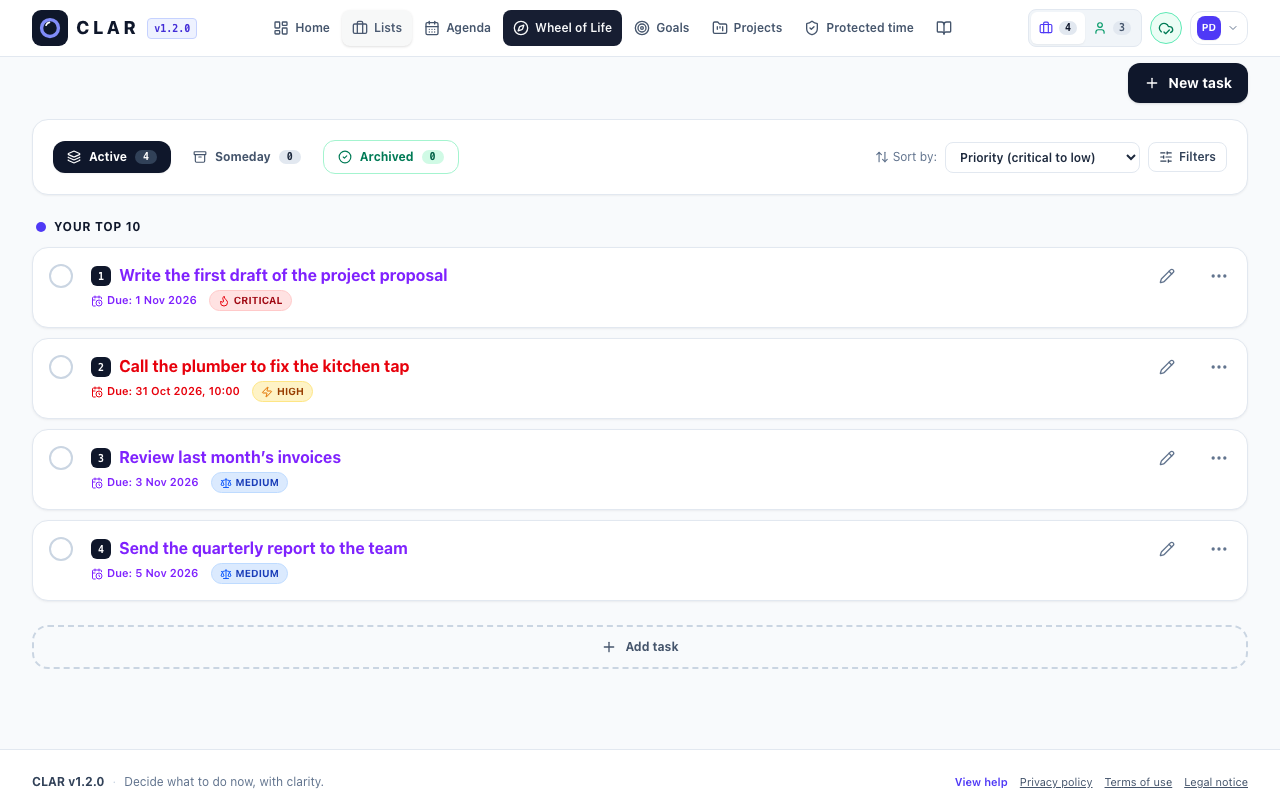
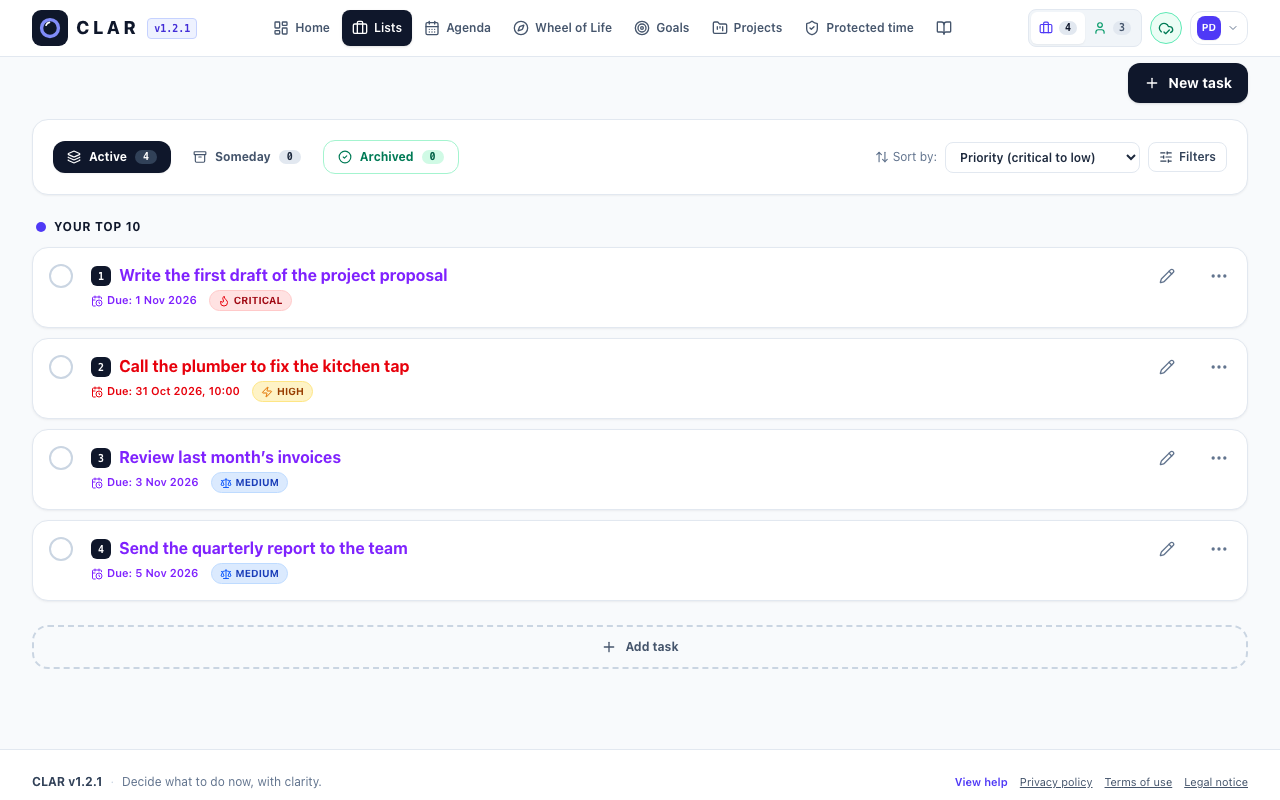
fix(launch): review — honest log retention, ?lang keeps an account's language, tab title per language, robust goal-form test, fresh screenshots

Changed region(s): [[0.375, 0.0, 0.5, 0.0625], [0.25, 0.0, 0.3438, 0.0625], [0.0938, 0.9688, 0.25, 1.0]]

diff --git a/src/i18n/locale.ts b/src/i18n/locale.ts
@@ -31,8 +31,9 @@ const read = (key: string) => {
 
 // El idioma de esta carga de la página. En los entornos sin navegador (pruebas, servidor), español; las pruebas
 // pueden fijar otro con globalThis.__CLAR_LOCALE__
-// Un enlace con ?lang=en (o ?lang=es) abre CLAR en ese idioma y lo deja elegido en el dispositivo, como si se hubiera
-// pulsado en el selector (pasa a la cuenta al entrar). El parámetro se quita de la dirección (consumeLocaleParam)
+// Un enlace con ?lang=en (o ?lang=es) abre CLAR en ese idioma y lo deja guardado en el dispositivo. No cambia el idioma
+// de una cuenta que ya tiene uno (en esa visita se ve el del enlace; la siguiente, el de la cuenta); una cuenta sin
+// idioma, o nueva, se queda con el del enlace. El parámetro se quita de la dirección (consumeLocaleParam)
 const LANG_PARAM = 'lang';
 const fromUrl = (): Locale | null => {
   if (typeof window === 'undefined') return null;
@@ -45,10 +46,7 @@ const initial = (): Locale => {
   const linked = fromUrl();
   if (linked) {
     try {
-      if (localStorage.getItem(STORAGE_KEY) !== linked) {
-        localStorage.setItem(STORAGE_KEY, linked);
-        localStorage.setItem(PENDING_KEY, '1');
-      }
+      localStorage.setItem(STORAGE_KEY, linked);
     } catch {
       // Sin almacenamiento: vale para esta carga
     }
@@ -58,6 +56,8 @@ const initial = (): Locale => {
   return isLocale(saved) ? saved : 'es';
 };
 export const LOCALE: Locale = initial();
+// Esta carga viene de un enlace con ?lang=: el idioma de la cuenta no la vuelve a cargar (useAccountLanguage)
+export const LINKED = fromUrl() !== null;
 const RELOADED_KEY = 'clar_locale_reloaded';
 // La recarga para adoptar el idioma de la cuenta funcionó: se olvida (ver setLocale)
 if (typeof window !== 'undefined') {
@@ -163,5 +163,10 @@ export const consumeLocaleParam = () => {
 
 // <html lang> según el idioma (lectores de pantalla, traductores, corrección ortográfica)
 export const applyDocumentLocale = () => {
-  if (typeof document !== 'undefined') document.documentElement.lang = LOCALE;
+  if (typeof document === 'undefined') return;
+  document.documentElement.lang = LOCALE;
+  document.title = messages<string>(
+    'CLAR · Decide qué hacer ahora, con claridad',
+    'CLAR · Decide what to do now, with clarity'
+  );
 };

diff --git a/tests/e2e/language.spec.ts b/tests/e2e/language.spec.ts
@@ -102,3 +102,33 @@ test('a link with ?lang=en opens CLAR in English, keeps it and cleans the addres
   await page.goto('/?lang=es');
   await expect(page.getByRole('button', { name: 'Continuar con Google' })).toBeVisible();
 });
+
+test('a ?lang link does not change the language of an account that has one; this visit shows the link language', async ({
+  page
+}) => {
+  test.slow();
+  const email = uniqueEmail();
+  await page.goto('/');
+  await signInWithGoogle(page, email);
+  const uid = await uidOf(email);
+  await expect.poll(async () => (await readDocument(`users/${uid}`))?.language).toBe('es');
+  await page.goto('/?lang=en');
+  await expect(page.locator('html')).toHaveAttribute('lang', 'en');
+  await expect(page.getByRole('button', { name: 'Lists', exact: true }).first()).toBeVisible({ timeout: 15_000 });
+  // La cuenta sigue en español y, en la próxima visita, manda
+  expect((await readDocument(`users/${uid}`))?.language).toBe('es');
+  await page.reload();
+  await expect(page.locator('html')).toHaveAttribute('lang', 'es', { timeout: 15_000 });
+});
+
+test('choosing the language already shown is not a choice for the account', async ({ page }) => {
+  // Un dispositivo nuevo: pulsar «Español», que ya se ve, no deja una elección pendiente de pasar a la cuenta
+  await page.goto('/');
+  await languageGroup(page).getByRole('button', { name: 'Español', exact: true }).click();
+  await expect(page.locator('html')).toHaveAttribute('lang', 'es');
+  expect(await page.evaluate(() => localStorage.getItem('clar_locale_pending'))).toBeNull();
+  // Elegir el otro, sí
+  await languageGroup(page).getByRole('button', { name: 'English', exact: true }).click();
+  await expect(page.locator('html')).toHaveAttribute('lang', 'en');
+  expect(await page.evaluate(() => localStorage.getItem('clar_locale_pending'))).toBe('1');
+});

diff --git a/src/components/LegalTexts.tsx b/src/components/LegalTexts.tsx
@@ -219,7 +219,10 @@ const PrivacyPolicyEs: React.FC = () => (
       <List>
         <li>Tu cuenta y lo que escribes: hasta que lo borres o elimines la cuenta.</li>
         <li>Registro de acceso y mensajes de «Escríbenos»: hasta que elimines la cuenta.</li>
-        <li>Registros técnicos: 30 días.</li>
+        <li>
+          Registros técnicos: los de CLAR (Cloud Logging), 30 días. Los que guardan los servicios de Google para
+          funcionar siguen sus propios plazos (Hosting, unos meses; Authentication, unas semanas).
+        </li>
         <li>
           Funciones extra: hasta que la administración te las quite o te retire o bloquee el acceso, o elimines la
           cuenta.
@@ -654,7 +657,10 @@ const PrivacyPolicyEn: React.FC<EnglishTextProps> = ({ onShowSpanish }) => (
       <List>
         <li>Your account and what you write: until you delete it or delete your account.</li>
         <li>Access record and “Contact us” messages: until you delete your account.</li>
-        <li>Technical logs: 30 days.</li>
+        <li>
+          Technical logs: CLAR's own (Cloud Logging), 30 days. Those that Google's services keep to work follow their
+          own periods (Hosting, a few months; Authentication, a few weeks).
+        </li>
         <li>
           Extra features: until the administrator removes them from you or withdraws or blocks your access, or you
           delete your account.

diff --git a/src/services/releaseNotes.ts b/src/services/releaseNotes.ts
@@ -30,11 +30,11 @@ export const RELEASE_NOTES: readonly ReleaseNote[] = [
       messages(
         {
           title: 'Arreglos',
-          text: 'Un área de la Rueda que renombraste ya no vuelve a su nombre de partida, y la página de entrada y la política de privacidad explican mejor quién ve tus datos y qué registros técnicos se guardan.'
+          text: 'Un área de la Rueda que renombraste conserva su nombre al cambiar de idioma, y la página de entrada y la política de privacidad explican mejor quién ve tus datos y qué registros técnicos se guardan.'
         },
         {
           title: 'Fixes',
-          text: 'A Wheel area you renamed no longer goes back to its starting name, and the sign-in page and the privacy policy explain better who sees your data and which technical logs are kept.'
+          text: 'A Wheel area you renamed keeps its name when you switch languages, and the sign-in page and the privacy policy explain better who sees your data and which technical logs are kept.'
         }
       )
     ]

diff --git a/tests/e2e/unsaved-changes.spec.ts b/tests/e2e/unsaved-changes.spec.ts
@@ -103,7 +103,10 @@ test('a goal form with unsaved changes also asks before closing', async ({ page 
   await openSection(page, 'Metas');
   await page.getByRole('button', { name: 'Nueva meta', exact: true }).click();
   const form = page.getByRole('dialog', { name: 'Nueva meta' });
-  await form.getByLabel(/^Meta/).fill(`Correr una media maratón ${unique()}`);
+  const goal = `Correr una media maratón ${unique()}`;
+  await form.getByLabel(/^Meta/).fill(goal);
+  // Que el formulario ya tenga lo escrito antes de cerrarlo (en CI, Escape podía llegar antes)
+  await expect(form.getByLabel(/^Meta/)).toHaveValue(goal);
   await page.keyboard.press('Escape');
   const prompt = page.getByRole('alertdialog', { name: '¿Descartar los cambios?' });
   await expect(prompt).toContainText('Has empezado una meta nueva y no la has guardado.');

diff --git a/functions/src/app.ts b/functions/src/app.ts
@@ -3,8 +3,8 @@ import express, { Request, Response } from 'express';
 // Función HTTP `api`: solo sirve los Digital Asset Links de la APK Android (lo demás son funciones invocables)
 import { defineString } from 'firebase-functions/params';
 
-// Parámetros de Digital Asset Links. `firebase deploy` pide los valores la primera vez
-// y los guarda en functions/.env.<project-id> (ignorado por git).
+// Parámetros de Digital Asset Links. En producción salen de functions/.env.<project-id> (ignorado por git; en CI, de
+// las variables del repositorio); en local, de los valores de ejemplo.
 const androidPackageName = defineString('ANDROID_PACKAGE_NAME', {
   // Sin configurar (p. ej. al probar en local), uno de ejemplo: no coincide con ninguna APK
   default: 'com.example.clar',

diff --git a/src/hooks/useAccountLanguage.ts b/src/hooks/useAccountLanguage.ts
@@ -4,6 +4,7 @@ import {
   accountLanguageSync,
   clearPendingLocale,
   hasPendingLocale,
+  LINKED,
   LOCALE,
   setLocale,
   storedLocale
@@ -31,6 +32,7 @@ export const useAccountLanguage = (db: Firestore, uid: string, language: unknown
       saveLanguage(db, uid, sync.language)
         .then(clearPendingLocale)
         .catch((e) => console.warn('Could not save the language:', e));
-    else if (sync.action === 'adopt') setLocale(sync.language, { pending: false, reload: sync.reload });
+    // Si se abrió con un enlace ?lang=, esta visita se queda en el del enlace; la siguiente, en el de la cuenta
+    else if (sync.action === 'adopt') setLocale(sync.language, { pending: false, reload: sync.reload && !LINKED });
   }, [db, uid, language, fromServer]);
 };

diff --git a/src/services/wheel.ts b/src/services/wheel.ts
@@ -13,8 +13,8 @@ export const WHEEL_CATEGORIES: DefaultWheelCategory[] = [
 ];
 
 // Nombre de las áreas de partida en cada idioma (en español, su identificador). Se guardan con su identificador como
-// nombre; al leerlas, un área de partida sin renombrar (con el nombre de partida de cualquier idioma) se muestra con
-// el del idioma de la app. Las renombradas conservan su nombre.
+// nombre; al leerlas, un área de partida guardada con su identificador se muestra con el nombre del idioma de la app.
+// Las renombradas conservan su nombre (también si coincide con el de partida del otro idioma).
 const DEFAULT_AREA_NAMES: Record<Locale, Record<DefaultWheelCategory, string>> = {
   es: {
     Salud: 'Salud',

diff --git a/docs/requisitos.md b/docs/requisitos.md
@@ -304,7 +304,7 @@ Origen: `src/AuthGate.tsx`, `src/AccessGate.tsx`, `src/services/auth.ts`, `src/s
 - **RF-CUE-30.** «Funciones extra», en el menú de la cuenta, muestra las que la persona administradora le ha activado, con su descripción y sin interruptor. La persona administradora las tiene todas, con un interruptor por función: empiezan apagadas y lo que elige se guarda en su perfil.
 - **RF-CUE-31.** «Compartir CLAR», en el menú de la cuenta, abre el menú de compartir del dispositivo con el nombre, la frase de la app y su dirección; donde no lo hay, copia la dirección y lo dice. Cerrar el menú de compartir no es un error.
 - **RF-CUE-32.** Sin sesión iniciada, la pantalla de entrada es también la página de presentación: qué es CLAR (la Rueda, las metas y proyectos, el Top 10, la agenda y las alarmas, el tiempo protegido, el dictado y el uso sin conexión), cómo se tratan los datos, que es de código abierto (con enlace al repositorio) y, al lado (debajo en el móvil), cómo entrar. «Crear cuenta gratis» lleva al formulario en «Crear una cuenta», y «Ya tengo cuenta», a «Entrar». Las funciones extra no se anuncian. Al compartir el enlace, se ve una tarjeta con el logo, el nombre y la frase (Open Graph, `public/og-image.png`).
-- **RF-CUE-33.** La app está en español (por defecto) o en inglés. «Español / English» está arriba en la página de inicio y en el menú de la cuenta; al cambiarlo, la app se vuelve a cargar en ese idioma. Un enlace con `?lang=en` (o `?lang=es`) abre la app en ese idioma y lo deja elegido como si se hubiera pulsado; el parámetro se quita de la dirección. La elección se guarda en el dispositivo y en la cuenta (`users/{uid}.language`): elegida antes de entrar, pasa a la cuenta al entrar; si no, al abrir la app manda la de la cuenta (solo al abrirla, no mientras se usa). Se traducen la interfaz, la ayuda, las novedades, los textos legales (en inglés, con el aviso de que vale la versión en español y un botón para cambiar a ella), los emails a la persona (verificación y contraseña, acceso aprobado, respuestas a sus mensajes), las notificaciones push (cada dispositivo registra su idioma), los mensajes de error del servidor y los eventos de Google Calendar. Lo que escribe la persona no se traduce; las áreas de partida de la Rueda sin renombrar se ven en el idioma de la app. Las fechas y los números siguen el idioma (en inglés, con el formato europeo: 24 h y el día antes que el mes) y el dictado se hace en él. Los emails a la administración siguen en español. Los accesos directos del icono y la descripción del enlace al compartir van en los dos idiomas.
+- **RF-CUE-33.** La app está en español (por defecto) o en inglés. «Español / English» está arriba en la página de inicio y en el menú de la cuenta; al cambiarlo, la app se vuelve a cargar en ese idioma. Un enlace con `?lang=en` (o `?lang=es`) abre la app en ese idioma y lo guarda en el dispositivo; una cuenta sin idioma, o nueva, se queda con él, y una que ya tiene uno lo conserva (esa visita se ve en el del enlace). El parámetro se quita de la dirección. La elección se guarda en el dispositivo y en la cuenta (`users/{uid}.language`): elegida antes de entrar, pasa a la cuenta al entrar; si no, al abrir la app manda la de la cuenta (solo al abrirla, no mientras se usa). Se traducen la interfaz, la ayuda, las novedades, los textos legales (en inglés, con el aviso de que vale la versión en español y un botón para cambiar a ella), los emails a la persona (verificación y contraseña, acceso aprobado, respuestas a sus mensajes), las notificaciones push (cada dispositivo registra su idioma), los mensajes de error del servidor y los eventos de Google Calendar. Lo que escribe la persona no se traduce; las áreas de partida de la Rueda sin renombrar se ven en el idioma de la app. Las fechas y los números siguen el idioma (en inglés, con el formato europeo: 24 h y el día antes que el mes) y el dictado se hace en él. Los emails a la administración siguen en español. Los accesos directos del icono y la descripción del enlace al compartir van en los dos idiomas.
 
 ### 1.11 Administración (RF-ADM)
 
@@ -390,7 +390,7 @@ Origen: `firestore.rules`, `firebase.json`, `functions/src/access.ts`, `function
 - **RNF-SEG-07.** La persona administradora solo puede leer los mensajes de contacto y cambiar su estado a nuevo, leído o cerrado. No puede escribir su contenido ni sus respuestas desde la app.
 - **RNF-SEG-08.** Las funciones invocables exigen sesión iniciada. Las de administración comprueban además que el email verificado del token es el configurado.
 - **RNF-SEG-09.** Las funciones validan y recortan lo que reciben: estados permitidos, longitudes, formato de los identificadores y caracteres de control. Los cambios de acceso van en transacciones: al entrar y al solicitar acceso se leen también el modo de aprobación y la lista negra; una decisión de la administración comprueba el estado actual.
-- **RNF-SEG-10.** Hosting añade a todas las respuestas `X-Content-Type-Options: nosniff`, `Referrer-Policy: strict-origin-when-cross-origin` y una `Permissions-Policy` que deniega cámara, ubicación, pagos, USB y `browsing-topics`, y deja el micrófono solo a la propia app (para dictar).
+- **RNF-SEG-10.** Hosting añade a todas las respuestas `X-Content-Type-Options: nosniff`, `Referrer-Policy: strict-origin-when-cross-origin` y una `Permissions-Policy` que deniega cámara, ubicación, pagos, USB y `browsing-topics`, y deja el micrófono solo a la propia app (para dictar). `X-Frame-Options: SAMEORIGIN` y `Content-Security-Policy: frame-ancestors 'self'` impiden incrustarla en otras webs.
 - **RNF-SEG-11.** La política de seguridad de contenidos (CSP) y la `Cross-Origin-Opener-Policy` están en modo solo informar (`Report-Only`): avisan en la consola del navegador, pero no bloquean.
 - **RNF-SEG-12.** Eliminar la cuenta exige volver a autenticarse, y cambiar la contraseña exige la actual.
 - **RNF-SEG-13.** La app descarga su configuración de Firebase del propio Hosting al arrancar, así que el identificador del proyecto no está en el código. La contraseña del buzón de correo está en Secret Manager.
@@ -433,7 +433,7 @@ Origen: `tests/e2e/a11y.spec.ts`, `src/hooks/useModalFocus.ts`, `src/components/
 - **RNF-ACC-06.** La app reduce las animaciones también cuando lo pide el sistema (`prefers-reduced-motion`). Con menos movimiento, las ventanas y los avisos aparecen sin animación y el confeti de las celebraciones no se ve.
 - **RNF-ACC-07.** Los avisos se anuncian a los lectores de pantalla: los normales en una región viva educada y las alarmas en una asertiva.
 - **RNF-ACC-08.** Los gráficos y las barras de progreso tienen alternativa en texto: el gráfico de 14 días tiene una tabla equivalente y las barras usan el rol `progressbar` con su valor descrito.
-- **RNF-ACC-09.** Los botones de solo icono tienen nombre accesible. El documento declara el idioma español (`lang="es"`).
+- **RNF-ACC-09.** Los botones de solo icono tienen nombre accesible. El documento declara su idioma (`lang="es"` o `lang="en"`, según el de la app) y el título de la pestaña va en ese idioma.
 - **RNF-ACC-10.** La pregunta antes de descartar cambios pone el foco en «Seguir editando», la opción que no pierde nada.
 
 ### 2.4 Funcionamiento sin conexión y sincronización (RNF-OFF)

diff --git a/README.md b/README.md
@@ -5,13 +5,15 @@
 [![License: MIT](https://img.shields.io/badge/License-MIT-blue.svg)](LICENSE)
 [![React](https://img.shields.io/badge/React-19-61dafb.svg?logo=react&logoColor=black)](https://react.dev/)
 [![TypeScript](https://img.shields.io/badge/TypeScript-7.x-3178c6.svg?logo=typescript&logoColor=white)](https://www.typescriptlang.org/)
+**[English](#in-english)** · [Español](#clar--decide-qué-hacer-ahora-con-claridad)
+
 [![Firebase](https://img.shields.io/badge/Firebase-Auth%20·%20Firestore%20·%20Functions-ffca28.svg?logo=firebase&logoColor=black)](https://firebase.google.com/)
 
 **CLAR** es una app web gratuita y de código abierto para organizar tu tiempo: evalúas tu Rueda de la Vida, conviertes
 lo que quieres mejorar en metas y proyectos, y cada día decides qué hacer con un Top 10 y una agenda con alarmas.
 Funciona sin conexión y en español o en inglés. Pruébala en **https://clar.life**.
 
-![CLAR: la lista de tareas con el Top 10](docs/screenshots/lists-en.png)
+![CLAR: la lista de tareas con el Top 10](docs/screenshots/lists-es.png)
 
 > Algunas ideas de esta app se inspiran en el libro _Gestiona tu tiempo, disfruta de la vida_, de Jonathan Benito Sipos.
 > Este proyecto no está afiliado ni respaldado por el autor. Hasta la versión 0.7 se llamaba NeuroProductividad.
@@ -326,7 +328,7 @@ Firebase Hosting sirve la SPA compilada (`dist/`), la app lee y escribe directam
 | `/.well-known/assetlinks.json` | Función `api` (Digital Asset Links de la APK Android) |
 | `**`                           | `index.html` (fallback de la SPA)                     |
 
-Todas las respuestas llevan cabeceras de seguridad, definidas en `firebase.json`: `X-Content-Type-Options`, `Referrer-Policy`, `Permissions-Policy` (sin cámara, ubicación, pagos ni USB; el micrófono, solo para la propia app, para dictar) y una política de seguridad de contenidos (CSP) que solo permite el propio dominio, el inicio de sesión de Google, las APIs de Firebase (`*.googleapis.com`), las Cloud Functions (`*.cloudfunctions.net`) y las fotos de perfil de Google. Por ahora la CSP y la `Cross-Origin-Opener-Policy` van en modo «solo informar» (`…-Report-Only`): no bloquean nada y avisan en la consola del navegador. Un servicio externo nuevo hay que añadirlo a la CSP.
+Todas las respuestas llevan cabeceras de seguridad, definidas en `firebase.json`: `X-Content-Type-Options`, `Referrer-Policy`, `Permissions-Policy` (sin cámara, ubicación, pagos ni USB; el micrófono, solo para la propia app, para dictar) y una política de seguridad de contenidos (CSP) que solo permite el propio dominio, el inicio de sesión de Google, las APIs de Firebase (`*.googleapis.com`), las Cloud Functions (`*.cloudfunctions.net`) y las fotos de perfil de Google. Además, `X-Frame-Options: SAMEORIGIN` y `frame-ancestors 'self'` impiden incrustar la app en otras webs. Por ahora el resto de la CSP y la `Cross-Origin-Opener-Policy` van en modo «solo informar» (`…-Report-Only`): no bloquean nada y avisan en la consola del navegador. Un servicio externo nuevo hay que añadirlo a la CSP.
 
 Requisitos: un proyecto de Firebase en plan Blaze (Cloud Functions lo exige), una base de datos de Firestore `(default)` en `europe-west1`, los proveedores de inicio de sesión **Google** y **Correo electrónico/contraseña** activados en Authentication y la Firebase CLI con sesión iniciada (`npx firebase login`).
 
@@ -336,7 +338,7 @@ El ID del proyecto no se versiona: `.firebaserc` está en `.gitignore`. En cada 
 npx firebase use --add
 ```
 
-Las funciones usan los parámetros `ANDROID_PACKAGE_NAME` y `ANDROID_SHA256_FINGERPRINT` (la función `api`), `ADMIN_EMAIL` y `SMTP_USER` (accesos y contacto) y, opcionales, `SMTP_HOST` (el servidor SMTP; por defecto `smtp.ionos.es`) y `APP_URL` (la dirección de la app en los emails). `firebase deploy` pide los que faltan y los guarda en `functions/.env.<project-id>`, ignorado por git; en CI salen de las variables y los secretos del repositorio. Para los emuladores, defínelos en `functions/.env.local`.
+Las funciones usan los parámetros `ANDROID_PACKAGE_NAME` y `ANDROID_SHA256_FINGERPRINT` (la función `api`), `ADMIN_EMAIL` y `SMTP_USER` (accesos y contacto) y, opcionales, `SMTP_HOST` (el servidor SMTP; por defecto `smtp.ionos.es`) y `APP_URL` (la dirección de la app en los emails). `firebase deploy` pide los que faltan y los guarda en `functions/.env.<project-id>`, ignorado por git; en CI salen de las variables y los secretos del repositorio. Para los emuladores no hace falta nada: `ANDROID_PACKAGE_NAME` y `ANDROID_SHA256_FINGERPRINT` tienen valores de ejemplo y el resto no se usa sin conexión a producción.
 
 #### Aprobación de accesos
 
